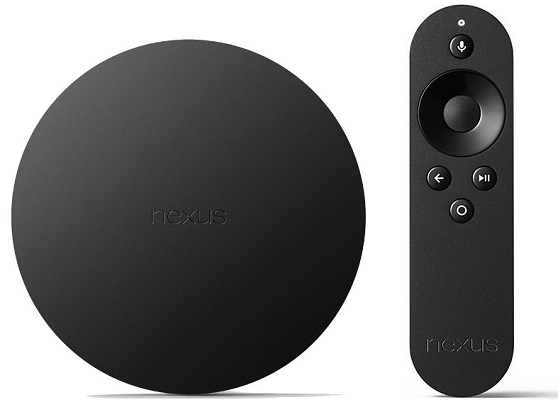
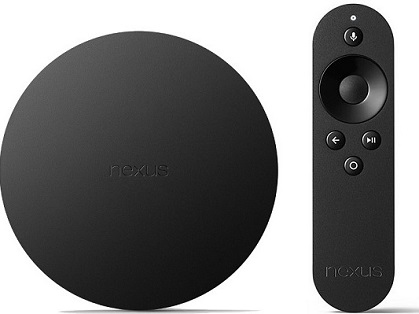
resize and center the pictures
resize and center the pictures

diff --git a/index.html b/index.html
@@ -196,7 +196,7 @@
             <div class="row no-gutter">
                 <div class="col-lg-4 col-sm-6">
                     <a href="#portfolio" class="portfolio-box" onclick="return false">
-                        <img src="img/portfolio/tf101.jpg" class="img-responsive" alt="">
+                        <center><img src="img/portfolio/tf101.jpg" class="img-responsive" alt=""></center>
                         <div class="portfolio-box-caption">
                             <div class="portfolio-box-caption-content">
                                 <div class="project-category text-faded">
@@ -211,7 +211,7 @@
                 </div>
                 <div class="col-lg-4 col-sm-6">
                     <a href="#portfolio" class="portfolio-box" onclick="return false">
-                        <img src="img/portfolio/N7-2012.jpg" class="img-responsive" alt="">
+                        <center><img src="img/portfolio/N7-2012.jpg" class="img-responsive" alt=""></center>
                         <div class="portfolio-box-caption">
                             <div class="portfolio-box-caption-content">
                                 <div class="project-category text-faded">
@@ -226,7 +226,7 @@
                 </div>
                 <div class="col-lg-4 col-sm-6">
                     <a href="#portfolio" class="portfolio-box" onclick="return false">
-                        <img src="img/portfolio/N7-2013.jpg" class="img-responsive" alt="">
+                        <center><img src="img/portfolio/N7-2013.jpg" class="img-responsive" alt=""></center>
                         <div class="portfolio-box-caption">
                             <div class="portfolio-box-caption-content">
                                 <div class="project-category text-faded">
@@ -241,7 +241,7 @@
                 </div>
                 <div class="col-lg-4 col-sm-6">
                     <a href="#portfolio" class="portfolio-box" onclick="return false">
-                        <img src="img/portfolio/me581.jpg" class="img-responsive" alt="">
+                        <center><img src="img/portfolio/me581.jpg" class="img-responsive" alt=""></center>
                         <div class="portfolio-box-caption">
                             <div class="portfolio-box-caption-content">
                                 <div class="project-category text-faded">
@@ -256,7 +256,7 @@
                 </div>
                 <div class="col-lg-4 col-sm-6">
                     <a href="#portfolio" class="portfolio-box" onclick="return false">
-                        <img src="img/portfolio/ZenFone-2.jpg" class="img-responsive" alt="">
+                        <center><img src="img/portfolio/ZenFone-2.jpg" class="img-responsive" alt=""></center>
                         <div class="portfolio-box-caption">
                             <div class="portfolio-box-caption-content">
                                 <div class="project-category text-faded">
@@ -271,7 +271,7 @@
                 </div>
                 <div class="col-lg-4 col-sm-6">
                     <a href="#portfolio" class="portfolio-box" onclick="return false">
-                        <img src="img/portfolio/nexusplayer.jpg" class="img-responsive" alt="">
+                        <center><img src="img/portfolio/nexusplayer.jpg" class="img-responsive" alt=""></center>
                         <div class="portfolio-box-caption">
                             <div class="portfolio-box-caption-content">
                                 <div class="project-category text-faded">
